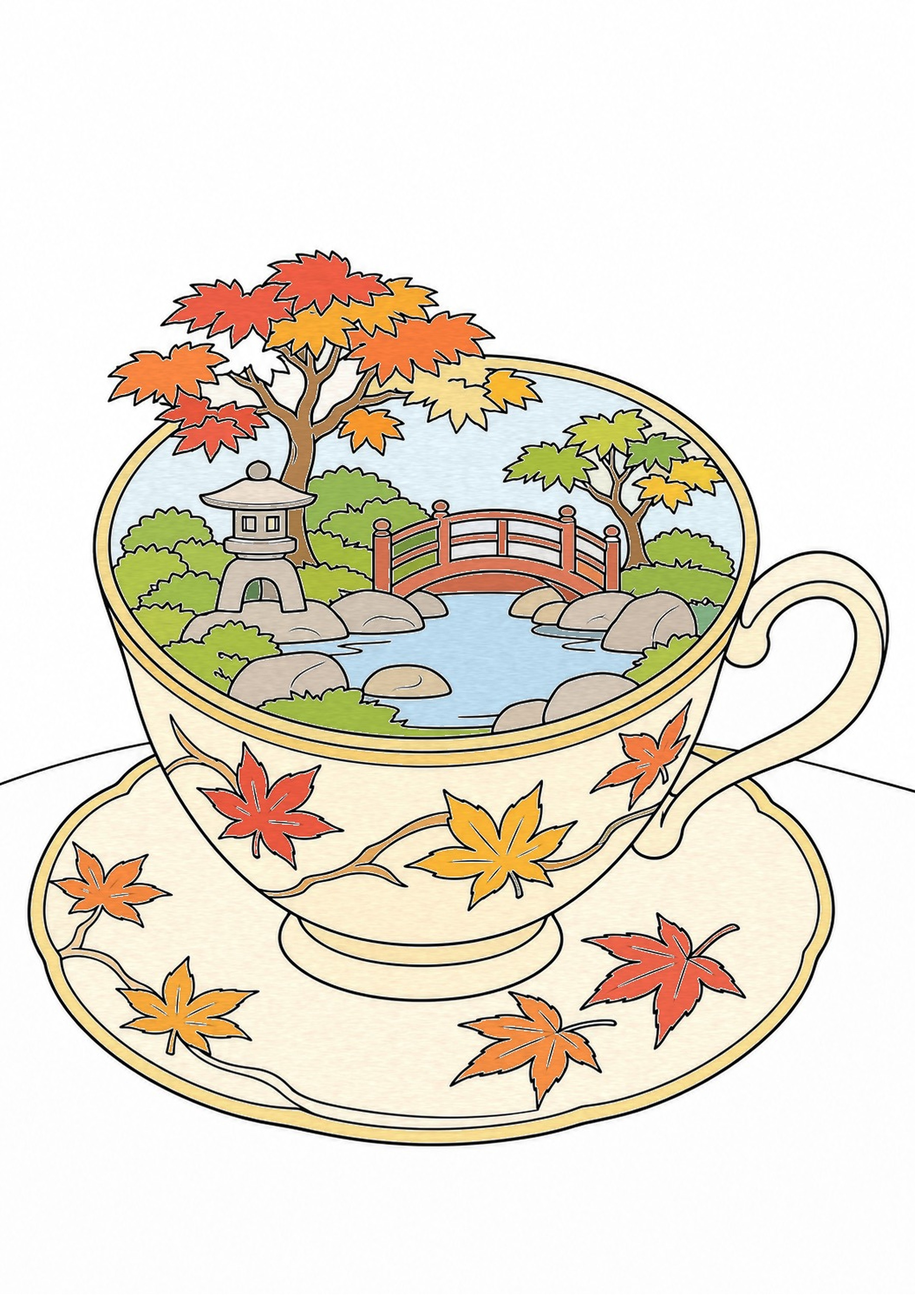
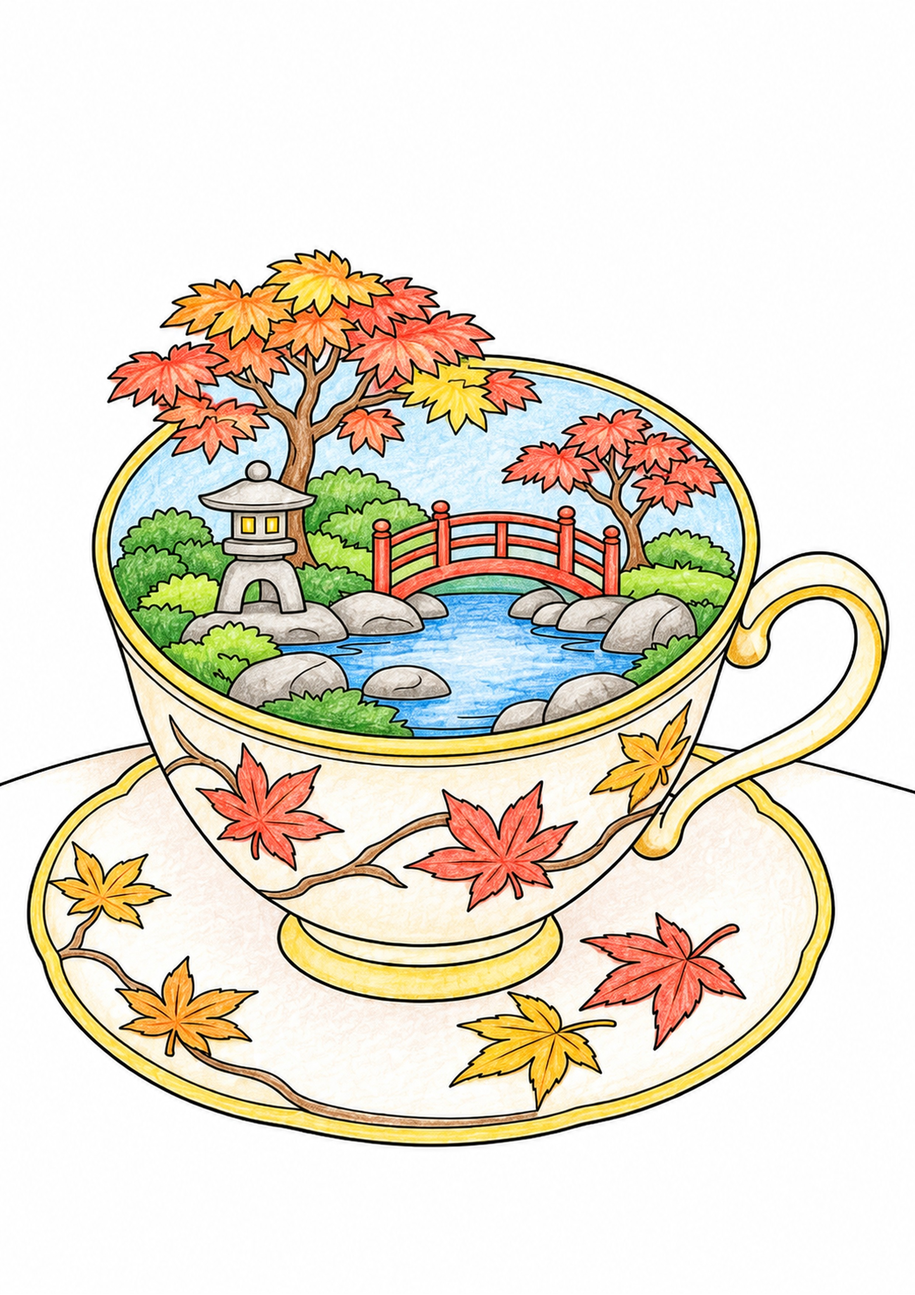
ティーカップの紅葉の庭の色見本を差し替え
Claude-Session: https://claude.ai/code/session_01EPRbSUbq6YG8US4CJV8gd8

Changed region(s): [[0.031, 0.1864, 0.9935, 0.9011]]

diff --git a/data.js b/data.js
@@ -1505,7 +1505,7 @@ window.NURIE_LIST = [
   { season: "冬", genre: "曼荼羅", title: "椿と雪うさぎの曼荼羅", diff: "中級", file: "tsubaki_yukiusagi_mandala_chu.png", sample: "tsubaki_yukiusagi_mandala_chu_sample.jpg", added: "2026-11", date: "2026-11-14", desc: "雪の結晶を中心に、椿・雪うさぎ・南天を円く並べた曼荼羅", v: "1794663383450" },
   { season: "冬", genre: "乗り物", title: "雪山をのぼる登山鉄道", diff: "上級", file: "tozan_tetsudo_jo.png", sample: "tozan_tetsudo_jo_sample.jpg", added: "2026-11", date: "2026-11-14", desc: "雪山の石橋とトンネルを越えて、山の駅へのぼる登山電車", v: "1794663384450" },
   { season: "秋", genre: "乗り物", title: "紅葉のトンネルを抜けるバス", diff: "中級", file: "momiji_tunnel_bus_chu.png", sample: "momiji_tunnel_bus_chu_sample.jpg", added: "2026-11", date: "2026-11-14", desc: "紅葉のトンネルの山道を走る、昔なつかしいボンネットバス", v: "1794663385450" },
-  { season: "秋", genre: "その他", title: "ティーカップの紅葉の庭", diff: "中級", file: "teacup_momiji_niwa_chu.png", sample: "teacup_momiji_niwa_chu_sample.jpg", added: "2026-11", date: "2026-11-14", desc: "ティーカップの中に広がる、太鼓橋と灯籠のある紅葉の庭", v: "1794663386450" },
+  { season: "秋", genre: "その他", title: "ティーカップの紅葉の庭", diff: "中級", file: "teacup_momiji_niwa_chu.png", sample: "teacup_momiji_niwa_chu_sample.jpg", added: "2026-11", date: "2026-11-14", desc: "ティーカップの中に広がる、太鼓橋と灯籠のある紅葉の庭", v: "1794663725467" },
   { season: "冬", genre: "風景", title: "秋から冬へ移る一本の木", diff: "初級", file: "aki_fuyu_ippon_ki_sho.png", sample: "aki_fuyu_ippon_ki_sho_sample.jpg", added: "2026-11", date: "2026-11-14", desc: "左は紅葉、右は雪。秋から冬へ移る一本の大きな木", v: "1794663387450" },
   { season: "秋", genre: "人物", title: "落ち葉の着物の女性", diff: "中級", file: "ochiba_kimono_josei_chu.png", sample: "ochiba_kimono_josei_chu_sample.jpg", added: "2026-11", date: "2026-11-14", desc: "紅葉といちょうの柄の着物で、番傘をさして歩く女性", v: "1794663388450" },
 ];
